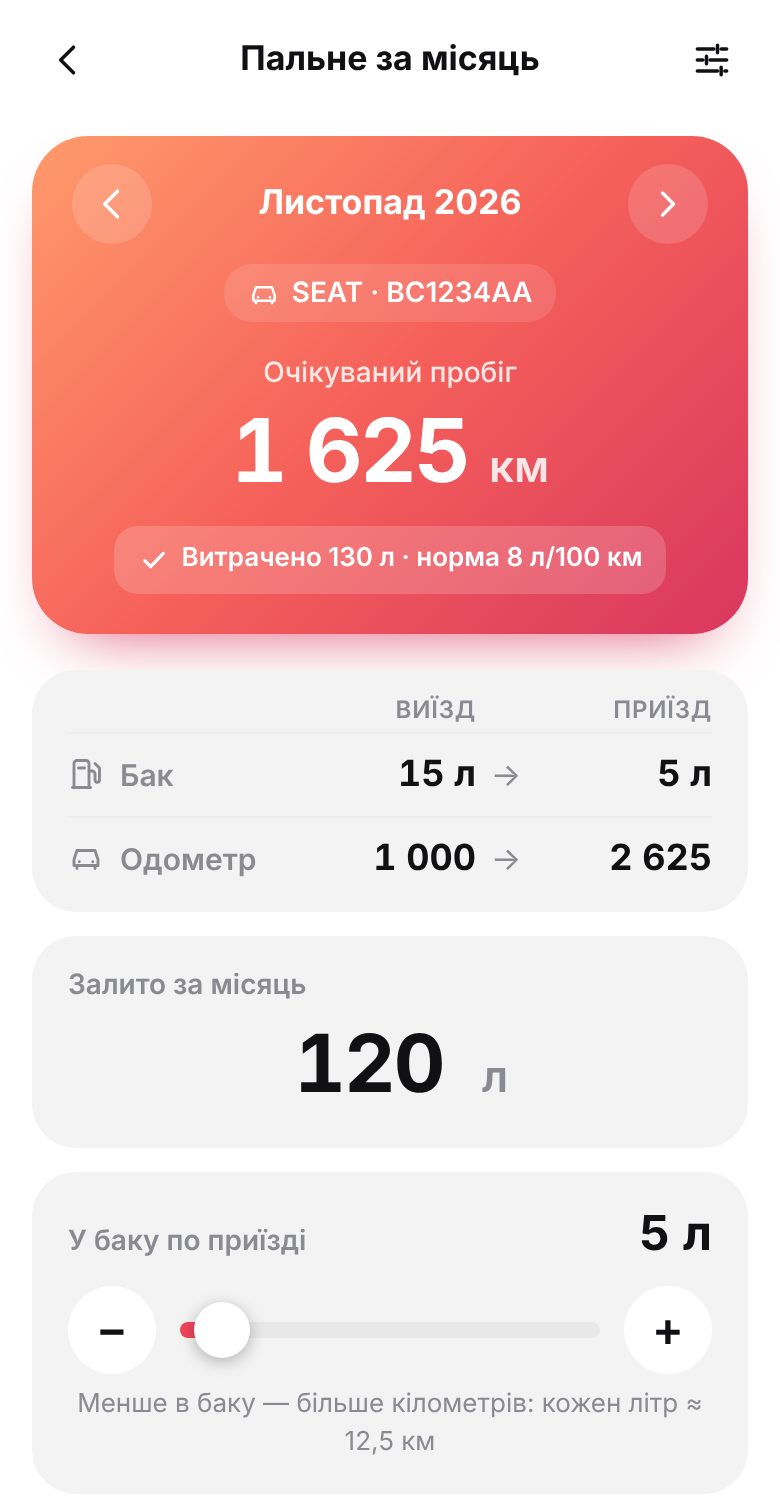
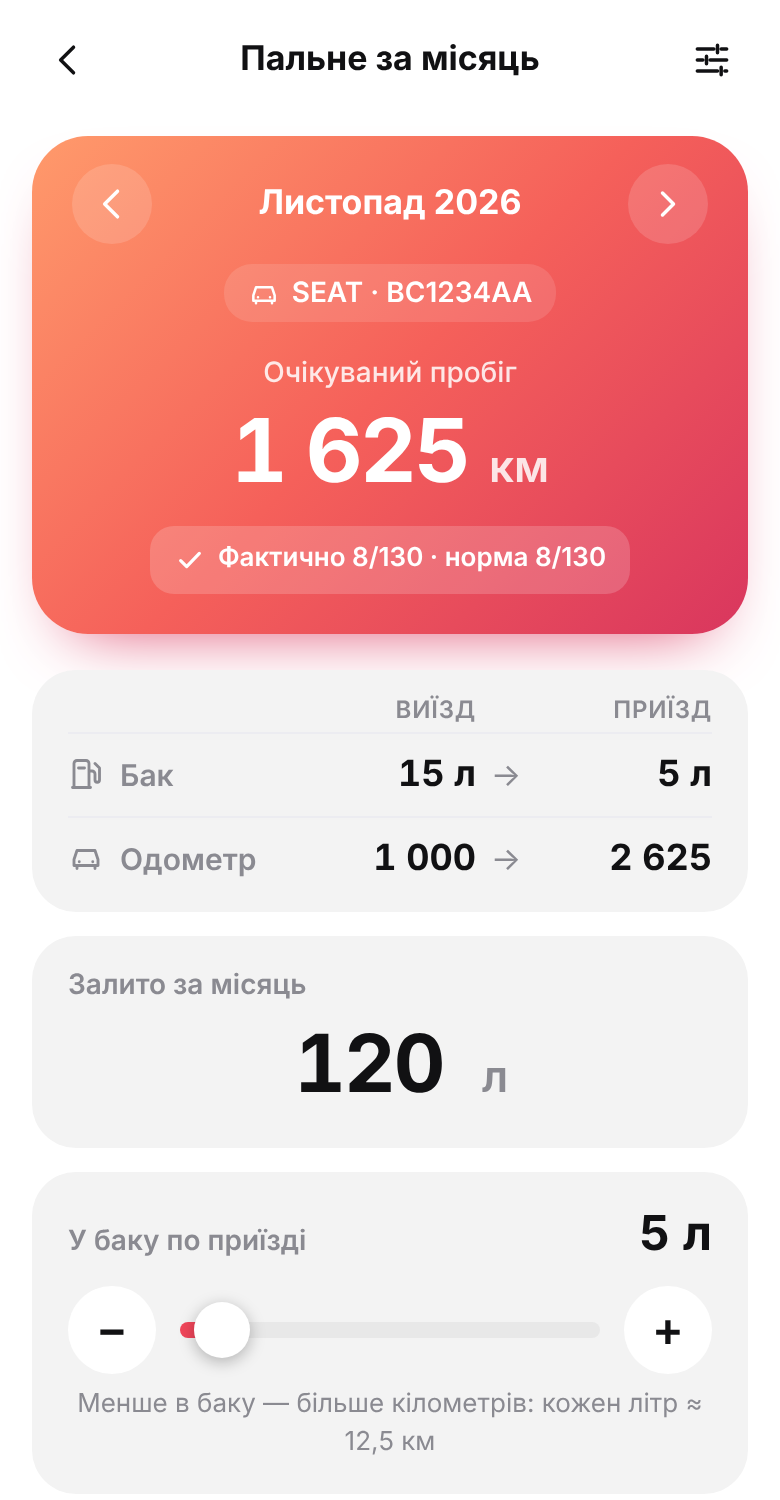
Fuel: actual rate never above norm, show norm and actual as fractions
Claude-Session: https://claude.ai/code/session_01MK9Aw3Yig429nqqad2jXvH

Changed region(s): [[0.2462, 0.3373, 0.8615, 0.3987], [0.1231, 0.3373, 0.2154, 0.3987]]

diff --git a/dist/app.js b/dist/app.js
@@ -70,7 +70,7 @@ function travelView(){prepareMonthly();if(!fuelLoaded)loadFuel().then(ok=>{if(ok
  <section class="fuel-input tank"><div class="tank-head"><label for="tank-range">У баку по приїзді</label><b id="tank-value"></b></div><div class="tank-row"><button class="round soft" data-action="tank-minus" aria-label="Менше на 1 л">−</button><input id="tank-range" type="range" min="0" max="${tankMax()}" step="0.5" data-key="travel.endTarget" value="${esc(t.endTarget)}"><button class="round soft" data-action="tank-plus" aria-label="Більше на 1 л">+</button></div><p class="hint center" id="tank-hint"></p></section>
  ${quick(['eye','Перегляд','travel-preview'],['next','Новий місяць','next-period'],['chart','Аналітика','fuel-analytics'],['save','В архів','save-travel'])}
  ${group('Розраховано',`<div class="stat-grid" id="fuel-stats"></div>${previousLine()}`)}
- <details class="group more"><summary>Початкові дані</summary><div class="card"><div class="field-grid">${field('Залишок на виїзді, л','travel.startFuel',t.startFuel,'number','min="0" step="0.01" inputmode="decimal"')}${field('Одометр на виїзді, км','travel.odometer',t.odometer,'number','min="0" step="0.01" inputmode="decimal"')}${field('Поправка, ± км','travel.adjustmentKm',t.adjustmentKm,'number','step="0.1"')}</div><div class="card-foot">${btn(icon('back')+'Підтягнути з попереднього місяця','fuel-previous','link')}</div></div></details>
+ <details class="group more"><summary>Початкові дані</summary><div class="card"><div class="field-grid">${field('Залишок на виїзді, л','travel.startFuel',t.startFuel,'number','min="0" step="0.01" inputmode="decimal"')}${field('Одометр на виїзді, км','travel.odometer',t.odometer,'number','min="0" step="0.01" inputmode="decimal"')}${field('Додатковий пробіг, км','travel.adjustmentKm',t.adjustmentKm,'number','min="0" step="0.1" inputmode="decimal"')}</div><div class="card-foot">${btn(icon('back')+'Підтягнути з попереднього місяця','fuel-previous','link')}</div></div></details>
  <details class="group more"><summary>Поїздки · ${plural(t.rows.length,'рядок','рядки','рядків')}</summary><div class="card"><div id="trip-rows">${tripRows()}</div><button class="add-row" data-action="add-trip">${icon('plus')}Додати поїздку</button>${t.rows.length>1?`<div class="card-foot">${btn('Розподілити порівну','split-trips','link')}</div>`:''}</div></details>
  <details class="group more"><summary>Реальний пробіг · для аналізу</summary><div class="card">${field('За період, км','travel.realKm',t.realKm??'','number','min="0" step="0.1" inputmode="decimal"')}<div id="real-comparison"></div></div></details>`,
  bar:`<div class="bar-2"><button class="button secondary" data-action="save-month">${icon('save')}Зберегти</button><button class="button" data-action="print-travel">${icon('print')}Друк</button></div>`}}
@@ -185,11 +185,11 @@ function updateDerived(){
  if(view==='event'){const total=$('#budget-total');if(total)total.innerHTML=money(costTotal(state.event.items))+' <small>₴</small>';state.event.items.forEach((r,i)=>{const el=document.querySelector(`[data-line-total="${i}"]`);if(el)el.textContent=money(r.qty*r.price)+' ₴'});const errs=eventErrors(true),st=$('#preview-status');if(st){st.className='hero-status '+(errs.length?'warn':'ok');st.innerHTML=errs.length?'Заповніть: '+esc(errs.join(', ')):icon('check')+'Наказ і кошторис готові до друку'}const od=$('#order-date'),o=eventDates(state.event).orderDate;if(od)od.textContent=o?`Дата наказу й кошторису — ${date(o)}, за день до дати чеку. Ставиться автоматично.`:'Дата наказу ставиться автоматично: за день до дати чеку.'}
  if(view==='travel'){prepareMonthly();const t=state.travel,r=fuelMetrics(t),v=(x,u='')=>x===undefined||x===null||!Number.isFinite(x)?'—':num(x)+u;
   const kt=$('#km-total');if(kt)kt.innerHTML=`${r.error||r.total===undefined?'—':num(r.total)} <small>км</small>`;
-  const st=$('#fuel-status');if(st){st.className='hero-status '+(r.error?'warn':'ok');st.innerHTML=r.error?esc(!Number(t.refill)&&Number(t.startFuel)<=Number(t.endTarget)?'Введіть, скільки пального залили':r.error):`${icon('check')}Витрачено ${num(t.liters)} л · норма ${num(t.rate)} л/100 км`}
+  const st=$('#fuel-status');if(st){const over=!r.error&&r.actualRate>Number(t.rate)+1e-9;st.className='hero-status '+(r.error||over?'warn':'ok');st.innerHTML=r.error?esc(!Number(t.refill)&&Number(t.startFuel)<=Number(t.endTarget)?'Введіть, скільки пального залили':r.error):over?'Фактична витрата більша за норму. Приберіть від’ємну поправку в «Початкових даних».':`${icon('check')}Фактично ${fraction(r.actualRate,Number(t.liters))} · норма ${fraction(Number(t.rate),r.normFuel)}`}
   const range=$('#tank-range');if(range){const max=tankMax();if(+range.max!==max)range.max=max;if(document.activeElement!==range)range.value=t.endTarget;range.style.setProperty('--p',Math.min(100,Number(t.endTarget)/max*100)+'%')}
   const ri=$('#refill-input');if(ri)ri.style.width=(ri.value||'0').length+.6+'ch';const tv=$('#tank-value');if(tv)tv.textContent=num(t.endTarget)+' л';
   const th=$('#tank-hint');if(th)th.textContent=r.error?'':`Менше в баку — більше кілометрів: кожен літр ≈ ${num(round(100/Number(t.rate||1),1))} км`;
-  [['#j-fuel-start',v(Number(t.startFuel),' л')],['#j-fuel-end',v(Number(t.endTarget),' л')],['#j-odo-start',v(Number(t.odometer))],['#j-odo-end',r.error?'—':v(r.endOdo)]].forEach(([q,x])=>{const el=$(q);if(el)el.textContent=x});const fs=$('#fuel-stats');if(fs)fs.innerHTML=[['Залито',v(Number(t.refill),' л')],['Витрачено',v(Number(t.liters),' л')],['Пробіг',v(r.total,' км')],['Норма',v(Number(t.rate),' л/100')],['За нормою',v(r.normFuel,' л')],['Відхилення',v(r.deviation,'%')]].map(([a,b])=>`<div><span>${a}</span><b>${b}</b></div>`).join('');
+  [['#j-fuel-start',v(Number(t.startFuel),' л')],['#j-fuel-end',v(Number(t.endTarget),' л')],['#j-odo-start',v(Number(t.odometer))],['#j-odo-end',r.error?'—':v(r.endOdo)]].forEach(([q,x])=>{const el=$(q);if(el)el.textContent=x});const fs=$('#fuel-stats');if(fs)fs.innerHTML=[['Залито',v(Number(t.refill),' л')],['Витрачено',v(Number(t.liters),' л')],['Пробіг',v(r.total,' км')],['Норма',r.error?'—':fraction(Number(t.rate),r.normFuel)],['Фактично',r.error?'—':fraction(r.actualRate,Number(t.liters))],['Відхилення',v(r.deviation,'%')]].map(([a,b])=>`<div><span>${a}</span><b>${b}</b></div>`).join('');
   const rc=$('#real-comparison');if(rc)rc.innerHTML=`<p class="hint">${r.realDifference===null?'Реальний пробіг не потрапляє до друкованого листа.':`Реальний − звітний: ${num(r.realDifference)} км (${num(r.realPercent)}%). Витрата за реальним: ${r.realRate===null?'—':num(r.realRate)} л/100 км.`}</p>`;
   const last=$('[data-last-km]');if(last)last.value=r.rows?.at(-1)?.km??0}
 }
@@ -264,7 +264,7 @@ document.addEventListener('click',async ev=>{const el=ev.target.closest('button'
   case 'backup':backup();break;
   case 'restore':$('#restore-file').click();break;
   case 'install':install();break}});
-document.addEventListener('input',ev=>{const el=ev.target,ds=el.dataset;if(ds.directory){contactDrafts[ds.directory][ds.contactField]=el.value;return}if(el.id==='archive-search'){$('#archive-list').innerHTML=archiveList(el.value);return}if(ds.key){const [obj,key]=ds.key.split('.');state[obj][key]=key==='realKm'&&el.value===''?'':el.type==='number'||el.type==='range'?Number(el.value):el.value;if(obj==='travel')prepareMonthly();save();updateDerived()}if(ds.item!==undefined){state.event.items[+ds.item][ds.prop]=ds.prop==='name'?el.value:Number(el.value);save();updateDerived()}if(ds.trip!==undefined&&!el.readOnly){state.travel.rows[+ds.trip][ds.prop]=ds.prop==='km'?Number(el.value):el.value;save();updateDerived()}});
+document.addEventListener('input',ev=>{const el=ev.target,ds=el.dataset;if(ds.directory){contactDrafts[ds.directory][ds.contactField]=el.value;return}if(el.id==='archive-search'){$('#archive-list').innerHTML=archiveList(el.value);return}if(ds.key){const [obj,key]=ds.key.split('.');state[obj][key]=key==='realKm'&&el.value===''?'':el.type==='number'||el.type==='range'?Number(el.value):el.value;if(obj==='travel'&&key==='adjustmentKm'&&state.travel.adjustmentKm<0){state.travel.adjustmentKm=0;el.value=0;toast('Фактична витрата не може бути більшою за норму, тому від’ємний пробіг не дозволено.')}if(obj==='travel')prepareMonthly();save();updateDerived()}if(ds.item!==undefined){state.event.items[+ds.item][ds.prop]=ds.prop==='name'?el.value:Number(el.value);save();updateDerived()}if(ds.trip!==undefined&&!el.readOnly){state.travel.rows[+ds.trip][ds.prop]=ds.prop==='km'?Number(el.value):el.value;save();updateDerived()}});
 document.addEventListener('change',async ev=>{if(ev.target.hasAttribute('data-fuel-month')){const bounds=monthBounds(ev.target.value);if(!bounds)return toast('Виберіть коректний місяць.');Object.assign(state.travel,bounds);state.travel.rows.forEach(row=>row.date=bounds.from);state.travel.refill=0;state.travel.realKm='';state.travel.adjustmentKm=0;delete state.travel.autoBasisMonth;await previousFuel();save();render();return;}if(ev.target.dataset.key==='travel.car'||ev.target.dataset.key==='travel.plate'){await previousFuel();return;}const picker=ev.target.dataset.contactPicker;if(picker){const target=ev.target.dataset.target||'event',val=ev.target.value;ev.target.value='';if(!val)return;if(val==='__save')return rememberContact(picker);if(val==='__open'){contactKind=picker;contactForm[picker]=true;return go('contacts')}if(target==='preset'){const row=state.representatives.find(r=>r.id===val);if(row)Object.assign(state.preset,{representativeId:val,person:row.person})}else applyContact(state,picker,val,target);save();render();return}if(ev.target.id!=='restore-file')return;try{const f=ev.target.files[0];if(!f)return;if(f.size>5000000)throw Error('Файл завеликий.');const incoming=JSON.parse(await f.text());if(!validBackup(incoming))throw Error('Невірний формат резервної копії.');if(confirm('Замінити всі поточні дані даними з резервної копії?')){state=migrateDirectories(incoming);state.travel.endTarget??=state.travel.startFuel;state.travel.adjustmentKm??=0;save();render();toast('Дані відновлено.')}}catch(e){toast('Не вдалося відновити: '+e.message)}});
 $('#close-preview').onclick=()=>$('#preview-dialog').close();$('#dialog-print').onclick=()=>printDoc(docType);
 window.addEventListener('beforeinstallprompt',e=>{e.preventDefault();deferredInstall=e});if('serviceWorker'in navigator)navigator.serviceWorker.register('./sw.js').catch(()=>{});
